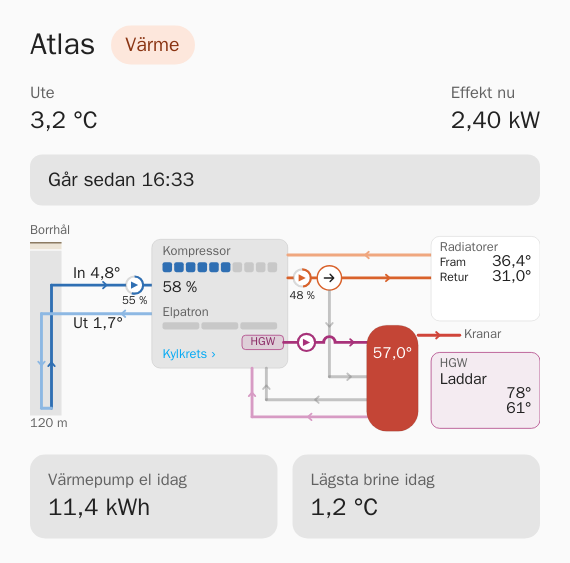
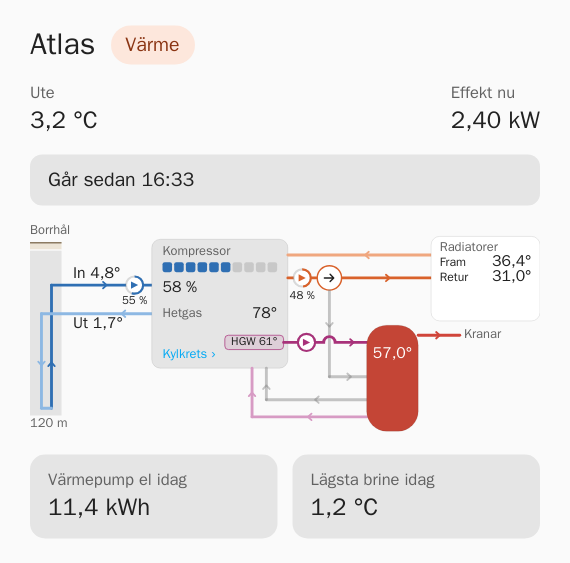
0.2.0: HGW values in the compressor box and the HGW label, no separate box; alarm on the label; HGW rows in the refrigerant view

Changed region(s): [[0.2684, 0.5435, 0.507, 0.6341], [0.7754, 0.6643, 0.9544, 0.7851], [0.7456, 0.6341, 0.8649, 0.7549]]

diff --git a/dist/atlas-card.js b/dist/atlas-card.js
@@ -12,7 +12,7 @@
  * MIT License
  */
 
-const CARD_VERSION = "0.1.0";
+const CARD_VERSION = "0.2.0";
 
 // Entity defaults: the thermiagenesis entity ids (the integration names every entity after the
 // same device, whatever the model). Anything else (power meter, price, the valve, the hot gas
@@ -98,7 +98,7 @@ const T = {
     hgw: "Hetgasväxlare (HGW)", hgwShort: "HGW", hgwOn: "Laddar beredaren", hgwIdle: "Står still", hgwOff: "Avstängd",
     hgwShortStatus: { on: "Laddar", idle: "Vilar", off: "Av", alarm: "Larm" },
     hgwAlarm: "Givarlarm", hgwGas: "Hetgas", hgwToTank: "Till beredaren", hgwStop: (v) => `Stannar under ${v}`,
-    hgwPump: "Hetgaspump", hgwEnabled: "HGW påslagen", discharge: "Hetgas (tryckrör)", tankExt1: "Extern", tankExt2: "beredare",
+    hgwPump: "Hetgaspump", hgwPumpStop: "Hetgaspump, stoppgräns", hgwEnabled: "HGW påslagen", discharge: "Hetgas (tryckrör)", tankExt1: "Extern", tankExt2: "beredare",
     whyHgwAlarm: "HGW-givaren larmar.",
   },
   en: {
@@ -128,7 +128,7 @@ const T = {
     hgw: "Hot gas exchanger (HGW)", hgwShort: "HGW", hgwOn: "Heating the tank", hgwIdle: "Idle", hgwOff: "Turned off",
     hgwShortStatus: { on: "Heating", idle: "Idle", off: "Off", alarm: "Alarm" },
     hgwAlarm: "Sensor alarm", hgwGas: "Hot gas", hgwToTank: "To the tank", hgwStop: (v) => `Stops below ${v}`,
-    hgwPump: "Hot gas pump", hgwEnabled: "HGW enabled", discharge: "Hot gas (discharge)", tankExt1: "External", tankExt2: "tank",
+    hgwPump: "Hot gas pump", hgwPumpStop: "Hot gas pump, stop limit", hgwEnabled: "HGW enabled", discharge: "Hot gas (discharge)", tankExt1: "External", tankExt2: "tank",
     whyHgwAlarm: "The HGW sensor reports an alarm.",
   },
 };
@@ -389,6 +389,7 @@ class AtlasCard extends HTMLElement {
   _detailModel() {
     const hass = this._hass, e = this._config.entities, t = this._t, lang = this._lang;
     const n = (k) => num(hass, e[k]);
+    const m_hgw = this._config.hgw === false ? null : this._hgwModel();
     const rng = (a, b) => `${n(a) ?? "–"}–${n(b) ?? "–"}`;
     return [
       ["hp", fmt(n("high_pressure"), 1, "bar", lang), `${t.bubble} ${fmt(n("bubble_point"), 1, "°C", lang)}`, "high_pressure", "warm"],
@@ -402,6 +403,9 @@ class AtlasCard extends HTMLElement {
         ...(this._config.hgw === false ? [] : [
           null,
           [t.discharge, fmt(n("discharge"), 1, "°C", lang), e.discharge],
+          [t.hgw, m_hgw ? (m_hgw.alarm ? t.hgwAlarm : m_hgw.status) : "–", e.hgw_active],
+          [t.hgwToTank, m_hgw ? m_hgw.supply : "–", e.hgw_supply],
+          ...(e.hgw_stop ? [[t.hgwPumpStop, fmt(num(hass, e.hgw_stop), 0, "°C", lang), e.hgw_stop]] : []),
           [t.hgwEnabled, e.hgw_enabled && str(hass, e.hgw_enabled) !== null ? (isOn(hass, e.hgw_enabled) ? t.yes : t.no) : "–", e.hgw_enabled],
           [`${t.hgwShort} · ${t.hgwAlarm}`, isOn(hass, e.hgw_alarm) ? t.active : t.noAlarm, e.hgw_alarm],
           null,
@@ -569,21 +573,17 @@ class AtlasCard extends HTMLElement {
   ${m.seasonKnown ? `<g class="season" data-entity="${esc(e.heating_season_stop)}">${m.integral ? `<title>${esc(m.integral)}</title>` : ""}<rect x="568" y="140" width="136" height="20" rx="10" class="pill ${m.heatStop ? "stop" : ""}"/>${txt(636, 154, (m.heatStop ? t.heatStopOn : t.heatStopOff)(m.stopLimit), `xs ${m.heatStop ? "stoptxt strong" : ""}`, "", "middle")}</g>` : ""}
 
   ${m.hgw ? `
-  <g class="hgw" data-entity="${esc(e.hgw_active)}">
-    <rect x="296" y="190" width="58" height="20" rx="5" class="hgwchip ${m.hgw.active ? "on" : ""}"/>
-    ${txt(325, 204, t.hgwShort, `xs strong ${m.hgw.active ? "hgwtxt" : "muted"}`, "", "middle")}
+  <g class="hgw" data-entity="${esc(e.hgw_supply)}">
+    <rect x="272" y="190" width="82" height="20" rx="5" class="hgwchip ${m.hgw.alarm ? "alarm" : m.hgw.active ? "on" : ""}"/>
+    ${txt(313, 204, m.hgw.alarm ? `${t.hgwShort} ${t.hgwAlarm.toLowerCase()}` : m.hgw.active ? `${t.hgwShort} ${m.hgw.supply}` : t.hgwShort, `xs strong ${m.hgw.alarm ? "warn" : m.hgw.active ? "" : "muted"}`, "", "middle")}
   </g>
+  <g data-entity="${esc(e.discharge)}">${m.immersion
+    ? `${txt(185, 204, `${t.hgwGas} ${m.hgw.gas}`, "sm")}`
+    : `${txt(185, 164, t.hgwGas, "lbl")}${txt(345, 166, m.hgw.gas, "val big", e.discharge, "end")}`}</g>
   <path d="M354 200H410A8 8 0 0 1 426 200H470" fill="none" stroke="${col.hgw}" stroke-width="4" stroke-linecap="round"/>
   ${pipe(310, 304, 470, 304, col.hgwRet)}${pipe(310, 236, 310, 304, col.hgwRet)}
   ${pumpSym(386, 200, m.hgw.pumpPct, c.hgw, e.hgw_pump || e.hgw_active)}${m.hgw.pumpText ? txt(386, 226, m.hgw.pumpText, "xs", e.hgw_pump, "middle") : ""}
   ${arrow(450, 200, 0, col.hgw)}${arrow(390, 304, 180, col.hgwRet)}${arrow(310, 272, 270, col.hgwRet)}
-  <g class="${m.hgw.active ? "" : "dim"}" data-entity="${esc(e.hgw_supply)}">
-    <rect x="560" y="214" width="152" height="106" rx="12" class="box ${m.hgw.active ? "hgwbox" : ""} ${m.hgw.alarm ? "warnbox" : ""}"/>
-    ${txt(572, 234, t.hgw, `lbl ${m.hgw.active ? "hgwtxt" : ""} full`)}${txt(572, 234, t.hgwShort, "lbl short")}
-    ${txt(572, 256, m.hgw.alarm ? t.hgwAlarm : m.hgw.status, `val big full ${m.hgw.alarm ? "warn" : ""}`)}${txt(572, 258, m.hgw.short, `val big short ${m.hgw.alarm ? "warn" : ""}`)}
-    <g data-entity="${esc(e.discharge)}">${txt(572, 278, t.hgwGas, "sm opt")}${txt(700, 278, m.hgw.gas, "val", e.discharge, "end")}</g>
-    ${txt(572, 298, t.hgwToTank, "sm opt")}${txt(700, 298, m.hgw.supply, "val", e.hgw_supply, "end")}
-    ${m.hgw.stop ? txt(572, 314, m.hgw.stop, "xs muted opt", e.hgw_stop) : ""}
   </g>` : ""}
 
   <g class="tank" data-action="tank" tabindex="0" role="button" aria-label="${esc(t.tankOpen)}">
@@ -837,8 +837,9 @@ svg .hpbox { fill: var(--secondary-background-color, #fafbfc); }
 svg .box.warnbox { fill: #fff4dc; stroke: #e0b65c; }
 svg .box.hgwbox { fill: rgba(168, 50, 122, 0.07); stroke: #a8327a; }
 svg .hgwchip { fill: var(--secondary-background-color, #f6f7f9); stroke: var(--divider-color, #c9cdd2); }
+svg .hgwchip.alarm { fill: #fff4dc; stroke: #e0b65c; }
 svg .hgwchip.on { fill: rgba(168, 50, 122, 0.12); stroke: #a8327a; }
-svg text.hgwtxt { fill: #8a2a66; }
+svg text.hgwtxt { fill: var(--primary-text-color); }
 svg .hgw { cursor: pointer; }
 svg .hp { cursor: pointer; outline: none; }
 svg .hp:focus-visible .hpbox { stroke: var(--primary-color); stroke-width: 2; }

diff --git a/test/card.test.js b/test/card.test.js
@@ -57,7 +57,7 @@ test("default HGW entities are the thermiagenesis inverter ones", () => {
   assert.equal(DEFAULT_ENTITIES.discharge, `sensor.${P}_discharge_pipe_temperature`);
 });
 
-test("heating with HGW running: loop coloured, box says it heats the tank", () => {
+test("heating with HGW running: loop coloured, hot gas in the compressor box, supply in the HGW label", () => {
   const c = card();
   const m = c._model();
   assert.equal(m.heatOn, true);
@@ -66,7 +66,10 @@ test("heating with HGW running: loop coloured, box says it heats the tank", () =
   assert.equal(m.hgw.gas, "78°");
   assert.equal(m.hgw.supply, "61°");
   const h = html(c);
-  assert.match(h, /Hetgasväxlare \(HGW\)/);
+  assert.ok(!h.includes("Hetgasväxlare (HGW)"), "no separate HGW box");
+  assert.match(h, />Hetgas</);
+  assert.match(h, />78°</);
+  assert.match(h, />HGW 61°</);
   assert.match(h, /stroke="#a8327a"/);
   assert.match(h, /Extern/);
   assert.ok(!h.includes("Beredare idag"));
@@ -96,13 +99,14 @@ test("without the regulation signal a configured hot gas pump decides", () => {
   assert.equal(off.hgw.active, false);
 });
 
-test("HGW sensor alarm shows in the box and the explanation line", () => {
+test("HGW sensor alarm shows in the HGW label and the explanation line", () => {
   const c = card({ [`binary_sensor.${P}_hgw_sensor_alarm`]: "on" });
   const m = c._model();
   assert.equal(m.hgw.alarm, true);
   assert.match(m.why, /HGW-givaren larmar/);
   assert.equal(m.tone, "warn");
-  assert.match(html(c), /Givarlarm/);
+  assert.match(html(c), /HGW givarlarm/);
+  assert.match(html(c), /hgwchip alarm/);
 });
 
 test("hot water: valve turns, coil branch live", () => {
@@ -133,16 +137,29 @@ test("refrigerant view lists the HGW rows", () => {
   assert.ok(rows.includes("Hetgas (tryckrör): 78,4 °C"), rows.join(" | "));
   assert.ok(rows.includes("HGW påslagen: Ja"));
   assert.ok(rows.includes("HGW · Givarlarm: Inget"));
+  assert.ok(rows.includes("Hetgasväxlare (HGW): Laddar beredaren"));
+  assert.ok(rows.includes("Till beredaren: 61°"));
 });
 
 test("English", () => {
   const c = card({}, {}, "en");
   assert.equal(c._model().hgw.status, "Heating the tank");
-  assert.match(html(c), /Hot gas exchanger \(HGW\)/);
+  assert.match(html(c), />Hot gas</);
+  assert.match(html(c), />HGW 61°</);
   assert.match(html(c), /External/);
 });
 
 test("registered as atlas-card", () => {
   assert.ok(customElements.get("atlas-card"));
   assert.ok(window.customCards.some((x) => x.type === "atlas-card"));
+});
+
+test("with an immersion heater the hot gas value moves next to the HGW label", () => {
+  const c = card({ "sensor.imm": "0" }, { entities: { immersion: "sensor.imm" } });
+  assert.match(html(c), />Hetgas 78°</);
+});
+
+test("the optional hot gas pump stop limit is listed in the refrigerant view", () => {
+  const rows = card({ "sensor.hgw_stop": "55" }, { entities: { hgw_stop: "sensor.hgw_stop" } })._detailModel().at(-1).rows.filter(Boolean).map(([l, v]) => `${l}: ${v}`);
+  assert.ok(rows.includes("Hetgaspump, stoppgräns: 55 °C"), rows.join(" | "));
 });

diff --git a/test/preview.html b/test/preview.html
@@ -59,7 +59,7 @@
   const c = document.createElement("atlas-card");
   c.setConfig({
     borehole_depth: 120,
-    entities: { power: "sensor.power", immersion: "sensor.immersion", hgw_stop: "sensor.hgw_stop", energy: "sensor.e1" },
+    entities: { power: "sensor.power", hgw_stop: "sensor.hgw_stop", energy: "sensor.e1" },
   });
   c._stats = { pump: 11.4, brine: 1.2 };
   c._statsAt = Date.now();

diff --git a/README.md b/README.md
@@ -13,10 +13,10 @@ It draws the system as it is assumed to be plumbed:
 - **Compressor:** current gear against the allowed maximum, speed, and the internal immersion heater.
 - **Diverting valve:** splits the condenser's supply between the radiators and the external water heater's coil. The arrow turns and the inactive branch greys out.
 - **Radiators:** supply, return, ΔT and heating stop.
-- **HGW loop:** hot gas from the compressor heats tank water in a separate exchanger. A pump takes cold water from the bottom of the tank and returns it hot to the top, independently of the valve. The loop is coloured while it runs. A box next to the tank shows the status, the hot gas (discharge pipe) temperature and the temperature going to the tank.
+- **HGW loop:** hot gas from the compressor heats tank water in a separate exchanger. A pump takes cold water from the bottom of the tank and returns it hot to the top, independently of the valve. The loop is coloured while it runs. The hot gas (discharge pipe) temperature is shown in the compressor box, and the temperature going to the tank in the HGW label where the loop leaves the heat pump ("HGW 63°"). A sensor alarm turns the label yellow and is named in the explanation line.
 - **External water heater:** the top temperature, plus the bottom one if your pump has that sensor. Tap it for a chart of the tank temperatures over 1, 3 or 7 days.
 
-Tap the compressor for the refrigerant circuit: pressures, operating hours, allowed gears, discharge pipe temperature, whether HGW is enabled, the HGW sensor alarm, heating stop and alarms. Every value opens its entity's more-info dialog.
+Tap the compressor for the refrigerant circuit: pressures, operating hours, allowed gears, discharge pipe temperature, the HGW status and supply temperature, whether HGW is enabled, the HGW sensor alarm, heating stop and alarms. Every value opens its entity's more-info dialog.
 
 | Heating, HGW heating the tank | Hot water through the valve, HGW idle |
 |---|---|
@@ -78,7 +78,7 @@ entities:
   valve: binary_sensor.hot_water_valve     # on = hot water; without it the card uses the demand
   immersion: sensor.diplomat_inverter_duo_internal_additional_heater_current_step   # if your pump has it
   hgw_pump: switch.hot_gas_pump            # optional: binary or speed (%)
-  hgw_stop: sensor.hot_gas_pump_stop_temperature   # optional: shown as "Stops below …"
+  hgw_stop: sensor.hot_gas_pump_stop_temperature   # optional: listed in the refrigerant view
 notices:
   - entity: input_boolean.load_guard
     text: The load guard limits the compressor.
@@ -88,11 +88,11 @@ notices:
 |---|---|
 | `title` | Card title (default `Atlas`). |
 | `borehole_depth` | Depth in metres, written under the borehole. |
-| `hgw` | `false` hides the HGW loop and box, for an Atlas without a hot gas exchanger. Default `true`. |
+| `hgw` | `false` hides the HGW loop, label and values, for an Atlas without a hot gas exchanger. Default `true`. |
 | `entities.<key>` | Override any entity. The keys are listed in `DEFAULT_ENTITIES` at the top of `dist/atlas-card.js`. |
 | `entities.valve` | Binary sensor that is `on` while the valve points to hot water. Without it the card infers the valve position from the demand. |
 | `entities.hgw_pump` | Optional hot gas pump: a binary sensor or switch, or a speed in %. Drawn on the pump symbol; used to tell if HGW runs when `hgw_active` is missing. |
-| `entities.hgw_stop` | Optional stop temperature for the hot gas pump, shown in the HGW box. |
+| `entities.hgw_stop` | Optional stop temperature for the hot gas pump, listed in the refrigerant view. |
 | `entities.immersion` | Binary sensor (`on`) or step sensor (`> 0`) for the internal immersion heater. |
 | `immersion_steps` | Number of immersion heater steps drawn as a bar (default `3`). |
 | `immersion_step_kw` | Optional kW per step; shows the current power next to the bar. |

diff --git a/CHANGELOG.md b/CHANGELOG.md
@@ -1,5 +1,13 @@
 # Changelog
 
+## 0.2.0 — 2026-11-01
+
+- **HGW values moved into the heat pump, no separate box.** The hot gas (discharge pipe) temperature is shown in the compressor box, where the immersion heater row sits when one is configured (next to the HGW label otherwise). The temperature going to the tank is shown in the HGW label itself ("HGW 63°") while the loop runs. The box to the right of the tank is gone; the coloured loop and label show that HGW runs.
+- A sensor alarm turns the HGW label yellow ("HGW givarlarm") and stays in the explanation line.
+- The refrigerant view adds the HGW status, the temperature to the tank and, when configured, the hot gas pump's stop limit (`hgw_stop`).
+- The HGW label's text uses the normal text colour, so it is readable in dark themes.
+- Based on the first screenshot from a real Atlas with HGW.
+
 ## 0.1.0 — 2026-10-30
 
 - First version, written without access to the hardware. Derived from Calibra Card 0.6.1: an Atlas without a built-in tank, with an external water heater and a hot gas heat exchanger (HGW).
